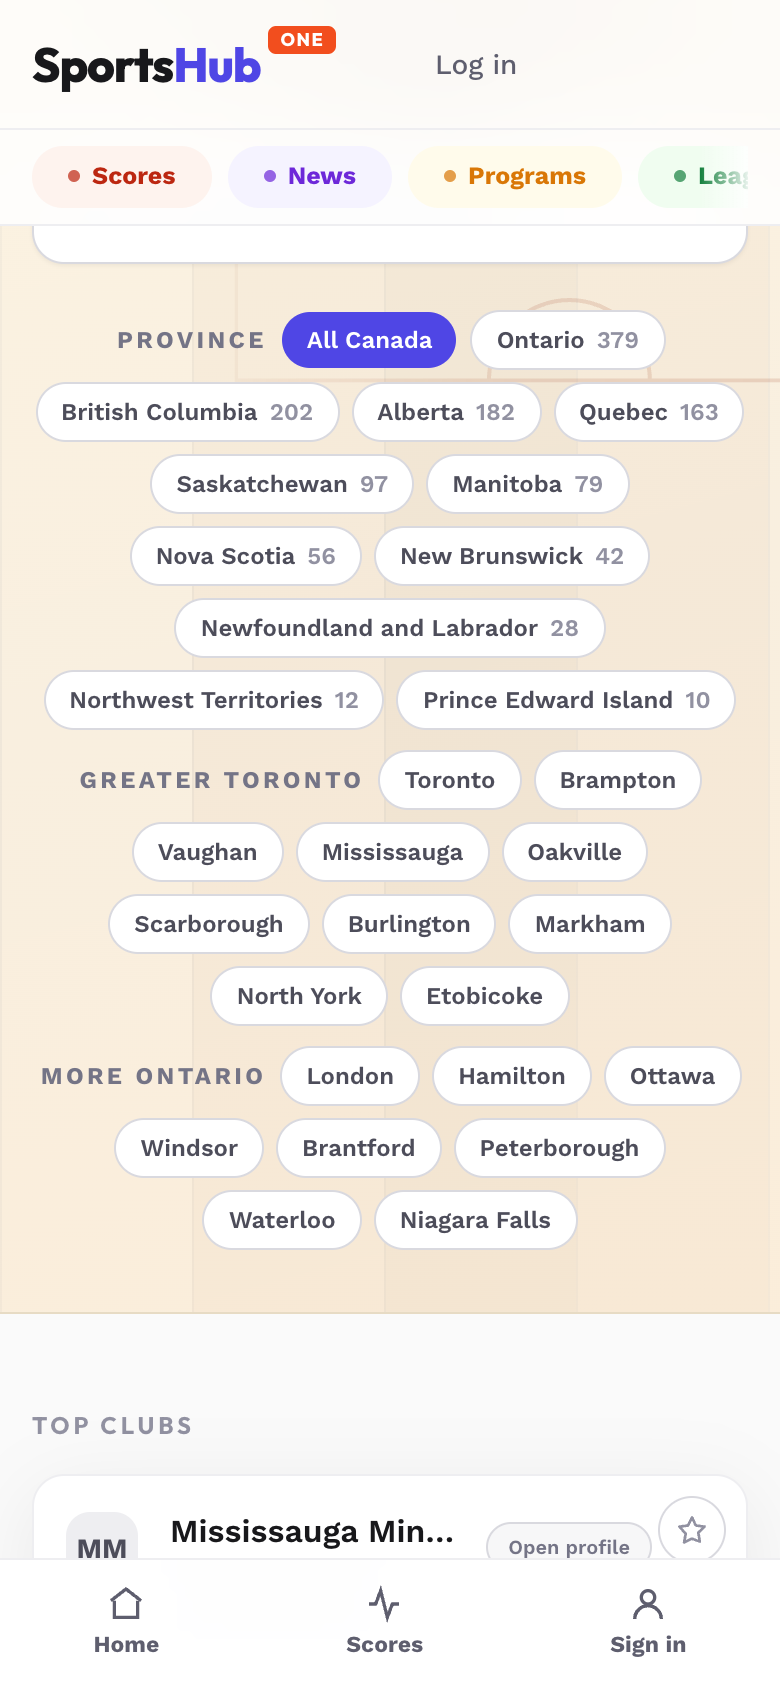
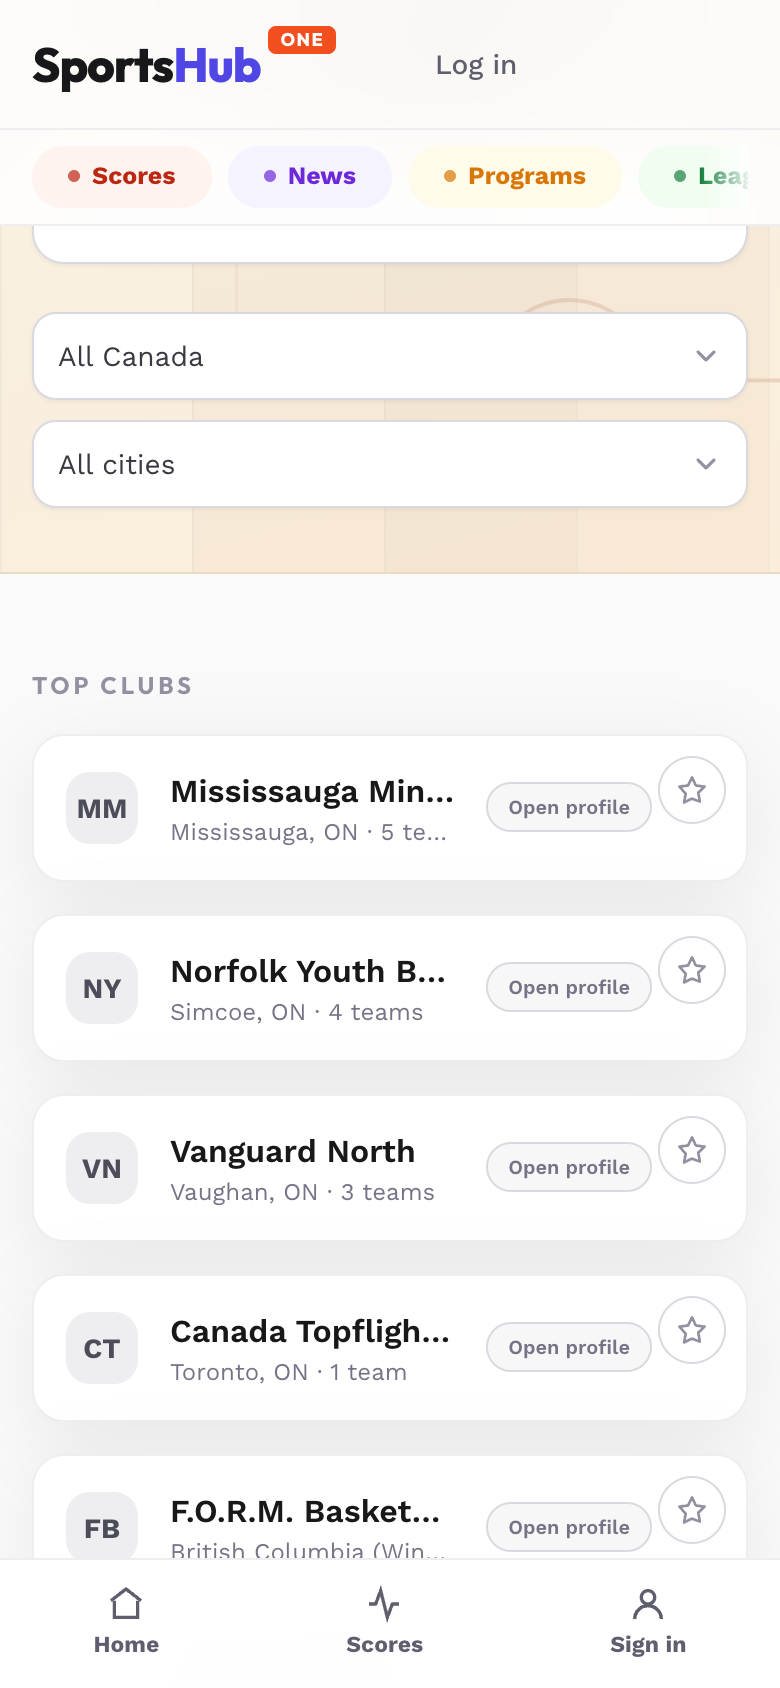
accent choreography, the One box, phone filters as dropdowns, and the mobile pass
Slogan accents no longer collide: no adjacent repeats, and every One
app is drawn as the logo badge, an orange rounded box, in the hero, the
pile heading, the navy card and the footer. The club directory's chip
wall becomes two dropdowns on phones (chips stay on desktop), the
discovery slide reshot with them, and a 1-teams plural bug died on the
way. Mobile landing: the claim section's grid blowout is contained, the
comparison table steps aside below md, and the red line doubles in
weight and brightens.

diff --git a/apps/web/src/app/dev/home-preview/preview.tsx b/apps/web/src/app/dev/home-preview/preview.tsx
@@ -36,7 +36,7 @@ const SLOGANS: { key: string; node: React.ReactNode; sub: React.ReactNode }[] = 
     key: "one-app",
     node: (
       <>
-        Youth basketball. <span className="text-gold-400">All of it.</span> One app.
+        Youth basketball. <span className="text-gold-400">All of it.</span> <OneBox /> app.
       </>
     ),
     sub: (
@@ -62,7 +62,7 @@ const SLOGANS: { key: string; node: React.ReactNode; sub: React.ReactNode }[] = 
     key: "rosters",
     node: (
       <>
-        Tryouts become <span className="text-gold-400">signed, paid rosters</span>.
+        Tryouts become <span className="text-court-400">signed, paid rosters</span>.
       </>
     ),
     sub: (
@@ -88,7 +88,7 @@ const SLOGANS: { key: string; node: React.ReactNode; sub: React.ReactNode }[] = 
     key: "chat-calendar",
     node: (
       <>
-        Team chat, polls, and <span className="text-hoop-400">one family calendar</span>.
+        Team chat, polls, and <span className="text-play-300">one family calendar</span>.
       </>
     ),
     sub: (
@@ -166,7 +166,7 @@ const SLOGANS: { key: string; node: React.ReactNode; sub: React.ReactNode }[] = 
     key: "already-built",
     node: (
       <>
-        Registration to final buzzer, <span className="text-court-400">already built</span>.
+        Registration to final buzzer, <span className="text-gold-400">already built</span>.
       </>
     ),
     sub: (
@@ -332,7 +332,7 @@ function ClaimSearch() {
   }, [q])
 
   return (
-    <div className="rounded-2xl bg-white p-6 shadow-xl ring-1 ring-ink-100">
+    <div className="min-w-0 rounded-2xl bg-white p-6 shadow-xl ring-1 ring-ink-100">
       <label htmlFor="hp-club-search" className="sr-only">
         Search clubs
       </label>
@@ -401,6 +401,16 @@ function useSloganRotation(count: number) {
   }
 
   return { active, goTo }
+}
+
+/** "One" drawn like the logo badge (owner 2026-08-17): the wordmark's orange
+ *  box with rounded corners, at whatever text size it sits in. */
+function OneBox() {
+  return (
+    <span className="rounded-[0.3em] bg-hoop-500 px-[0.28em] py-[0.05em] leading-none text-white">
+      One
+    </span>
+  )
 }
 
 function Wordmark({ dark = false }: { dark?: boolean }) {
@@ -601,7 +611,7 @@ function ReplacesStory() {
         <div>
           <p className="text-[13px] font-bold uppercase tracking-[0.14em] text-hoop-600">Today</p>
           <h2 className="mt-2 text-4xl font-bold tracking-tight text-ink-950 sm:text-5xl">
-            One app replaces the pile.
+            <OneBox /> app replaces the pile.
           </h2>
           <p className="mt-5 max-w-lg text-lg leading-relaxed text-ink-600">
             Most seasons run on a stack of tools that were never built to talk to each other.
@@ -623,7 +633,7 @@ function ReplacesStory() {
 
         <div className="rounded-2xl bg-ink-950 p-8 shadow-xl sm:p-10">
           <div className="flex items-center justify-between">
-            <h3 className="text-2xl font-bold text-white">One app</h3>
+            <h3 className="text-2xl font-bold text-white"><OneBox /> app</h3>
             <span className="rounded-full bg-gold-500 px-3 py-1 text-[13px] font-bold uppercase tracking-wide text-ink-950">
               All of it
             </span>
@@ -670,7 +680,7 @@ function CompareMark({ cell }: { cell: CompareCell }) {
     // glance without shouting, and people who know can still see it.
     return (
       <span
-        className="mx-auto block h-[3px] w-5 rounded-full bg-live-600"
+        className="mx-auto block h-[5px] w-7 rounded-full bg-live-500"
         role="img"
         aria-label="Not offered"
       />
@@ -680,8 +690,10 @@ function CompareMark({ cell }: { cell: CompareCell }) {
 }
 
 function CompareTable() {
+  /* Mobile drops the table (owner 2026-08-17): ten columns cannot read on a
+     phone, and the pile section above already carries the replaces message. */
   return (
-    <section className="border-y border-ink-100 bg-ink-50 py-14 sm:py-16">
+    <section className="hidden border-y border-ink-100 bg-ink-50 py-14 sm:py-16 md:block">
       <div className="mx-auto w-full max-w-6xl px-5">
         <div className="text-center">
           <p className="text-[13px] font-bold uppercase tracking-[0.14em] text-court-700">
@@ -1130,8 +1142,8 @@ function ClaimYourClub() {
   return (
     <CourtBackdrop variant="daylight" floor="planks" intensity="band">
       <section id="claim" className="mx-auto w-full max-w-6xl px-5 py-12 sm:py-14">
-        <div className="grid items-center gap-12 lg:grid-cols-2">
-          <div>
+        <div className="grid grid-cols-1 items-center gap-12 lg:grid-cols-2">
+          <div className="min-w-0">
             <p className="text-[13px] font-bold uppercase tracking-[0.14em] text-hoop-600">
               For clubs
             </p>
@@ -1168,7 +1180,7 @@ function Footer() {
       <div className="mx-auto flex w-full max-w-6xl flex-col items-center gap-8 px-5 text-center">
         <div>
           <Wordmark />
-          <p className="mt-3 text-base text-white/60">Youth basketball. All of it. One app.</p>
+          <p className="mt-3 text-base text-white/60">Youth basketball. All of it. <OneBox /> app.</p>
         </div>
         <nav className="flex flex-wrap items-center justify-center gap-x-7 gap-y-3 text-[15px] font-semibold text-white/70">
           <Link href="/demos" className="transition-colors hover:text-white">

diff --git a/apps/web/src/app/(public)/club/page.tsx b/apps/web/src/app/(public)/club/page.tsx
@@ -9,6 +9,7 @@ import {
   type DirectoryClub,
 } from "@/lib/queries/directory-clubs"
 import { PUBLIC_REVIEWS } from "@/lib/public-flags"
+import { ClubFilterSelects } from "./filter-selects"
 import { Crest, PageBand, StarRating } from "@/components/ui"
 import { FollowButton } from "@/components/follow-button"
 import { ClubSearch } from "../club-search"
@@ -18,7 +19,7 @@ export const dynamic = "force-dynamic"
 export const metadata = {
   title: "Find a Youth Basketball Club Near You",
   alternates: { canonical: "/club" },
-  description: "Discover youth basketball clubs near you, rated by real families.",
+  description: "Discover youth basketball clubs and programs near you, province by province.",
 }
 
 function ClubCard({
@@ -64,8 +65,8 @@ function ClubCard({
         )}
         <span className="text-ink-500 block truncate text-xs">
           {[club.city, club.state].filter(Boolean).join(", ") || "Ontario"}
-          {club._count.teams > 0 && ` · ${club._count.teams} teams`}
-          {club._count.tryouts > 0 && ` · ${club._count.tryouts} tryouts`}
+          {club._count.teams > 0 && ` · ${club._count.teams} ${club._count.teams === 1 ? "team" : "teams"}`}
+          {club._count.tryouts > 0 && ` · ${club._count.tryouts} ${club._count.tryouts === 1 ? "tryout" : "tryouts"}`}
         </span>
       </span>
       {club.status === "UNCLAIMED" && (
@@ -222,7 +223,16 @@ export default async function ClubDirectoryPage({
             one row with Ontario pinned first, then the cities of the scoped
             province with the GTA pinned on its own row. Never mixed. */}
         <div className="mt-6 space-y-3">
-          <div className="flex flex-wrap items-center justify-center gap-2">
+          <ClubFilterSelects
+            provinces={provinces.map(([code, count]) => [
+              code,
+              `${PROVINCE_NAMES[code] ?? code} (${count})`,
+            ])}
+            cities={scopedCities.map((g) => g.city)}
+            prov={prov}
+            city={city}
+          />
+          <div className="hidden flex-wrap items-center justify-center gap-2 sm:flex">
             <span className="text-ink-500 text-[12px] font-bold uppercase tracking-[0.14em]">
               Province
             </span>
@@ -244,7 +254,7 @@ export default async function ClubDirectoryPage({
           </div>
 
           {gtaCities.length > 0 && (
-            <div className="flex flex-wrap items-center justify-center gap-2">
+            <div className="hidden flex-wrap items-center justify-center gap-2 sm:flex">
               <span className="text-ink-500 text-[12px] font-bold uppercase tracking-[0.14em]">
                 Greater Toronto
               </span>
@@ -264,7 +274,7 @@ export default async function ClubDirectoryPage({
           )}
 
           {restCities.length > 0 && (
-            <div className="flex flex-wrap items-center justify-center gap-2">
+            <div className="hidden flex-wrap items-center justify-center gap-2 sm:flex">
               <span className="text-ink-500 text-[12px] font-bold uppercase tracking-[0.14em]">
                 {scope === "ON" ? "More Ontario" : (PROVINCE_NAMES[scope] ?? scope)}
               </span>

diff --git a/apps/web/src/app/(public)/club/filter-selects.tsx b/apps/web/src/app/(public)/club/filter-selects.tsx
@@ -1,0 +1,50 @@
+"use client"
+
+import { useRouter } from "next/navigation"
+import { BrandListbox } from "@/components/ui"
+
+/**
+ * Phone filters for the club directory (owner 2026-08-17): three chip rows
+ * are a wall on a small screen, so mobile gets two dropdowns instead. The
+ * chips stay on desktop where they read at a glance; both drive the same
+ * ?prov= and ?city= params.
+ */
+export function ClubFilterSelects({
+  provinces,
+  cities,
+  prov,
+  city,
+}: {
+  /** [code, label with count] pairs, Ontario first. */
+  provinces: [string, string][]
+  cities: string[]
+  prov?: string
+  city?: string
+}) {
+  const router = useRouter()
+
+  return (
+    <div className="mx-auto flex w-full max-w-md flex-col gap-2.5 sm:hidden">
+      <BrandListbox
+        value={prov ?? ""}
+        onChange={(v) => router.push(v ? `/club?prov=${encodeURIComponent(v)}` : "/club")}
+        options={[
+          { value: "", label: "All Canada" },
+          ...provinces.map(([code, label]) => ({ value: code, label })),
+        ]}
+        ariaLabel="Filter by province"
+      />
+      <BrandListbox
+        value={city ?? ""}
+        onChange={(v) =>
+          router.push(v ? `/club?city=${encodeURIComponent(v)}` : prov ? `/club?prov=${prov}` : "/club")
+        }
+        options={[
+          { value: "", label: "All cities" },
+          ...cities.map((c) => ({ value: c, label: c })),
+        ]}
+        ariaLabel="Filter by city"
+      />
+    </div>
+  )
+}
